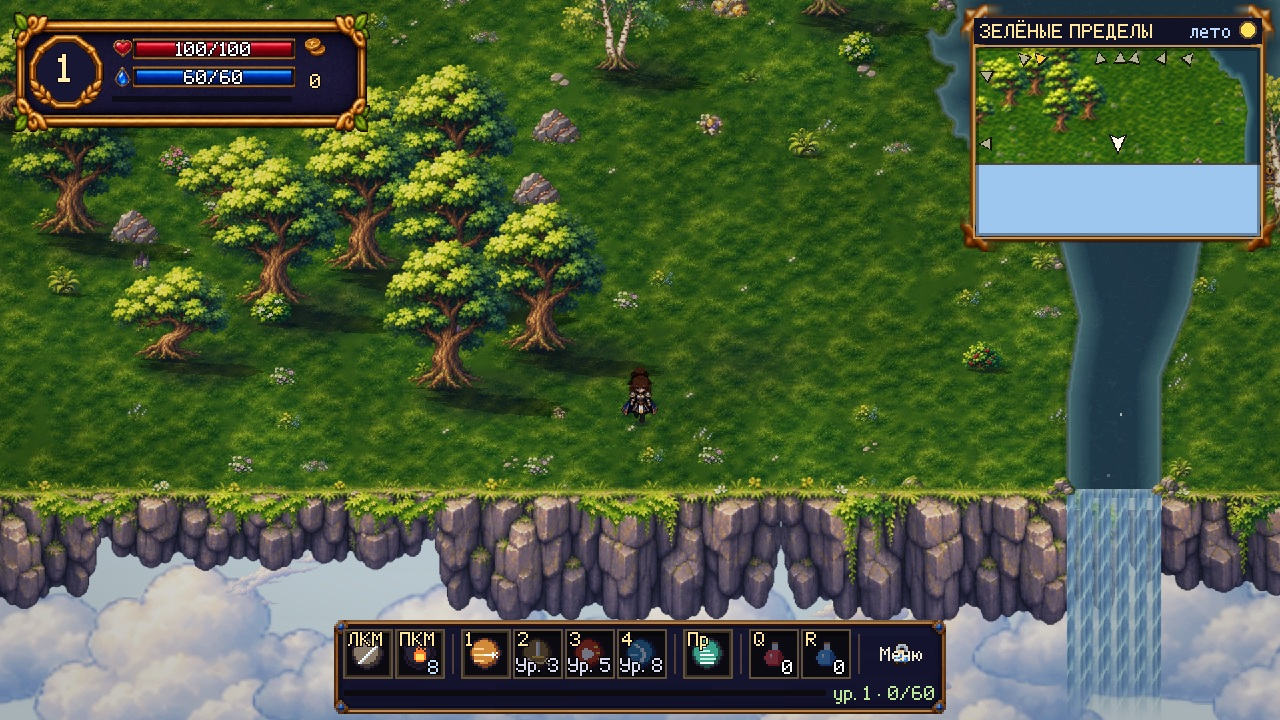
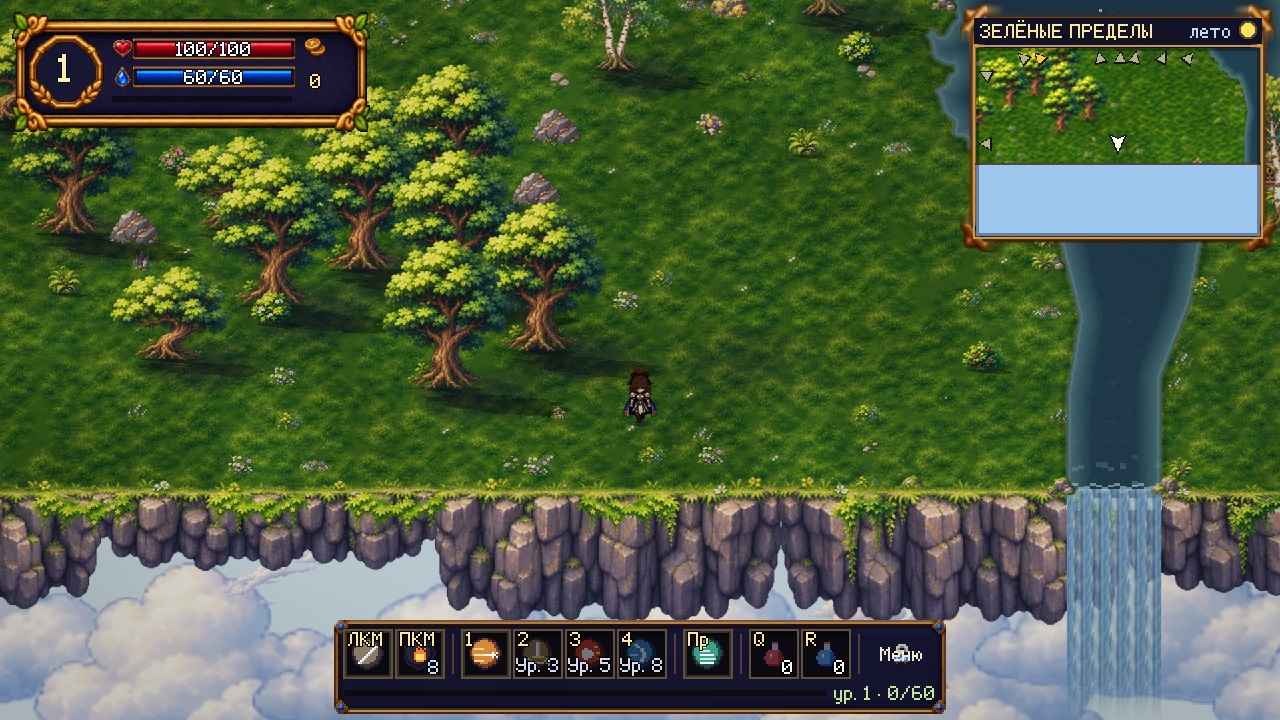
Blend lake surface into waterfall with synchronized brink current

diff --git a/docs/AI_HANDOFF.md b/docs/AI_HANDOFF.md
@@ -1,10 +1,12 @@
 # AI HANDOFF — Skyward Tales
 
-Последнее обновление: 11 ноября 2026 года — русло озера и нижний силуэт скал.
+Последнее обновление: 11 ноября 2026 года — русло озера, нижний силуэт скал и течение у уступа.
 
 **Утверждён один стиль:** подробный пиксельный лесной летающий остров по эталону владельца, чуть более приглушённый дневной свет и тёмный золотой UI. Не генерировать альтернативные варианты. См. docs/ART_DIRECTION.md.
 
 **Продолжение после остановки предыдущего ИИ:** добавлено `terrain.ponds[id=east_lake_outlet]`: полигон от озера (1556, 991) к устью EastLakeSource (1556, 1274). `polygon` — точный контур воды в HD и обычном генераторе, `rect` — его охватывающие габариты для перебора коллизий и защитных зон леса/сокровищ. В world.gd полигон проверяется до rect; препятствия идут с отступом 10 px от берега и входят в общий навигационный меш. Миникарта использует пересобранную землю. Узкое русло помечено fishable=false; рыбалка у озера сохранена. Местные игровые объекты и деревья не перемещены. `varied_cliff_depth=true` только у Greenreach меняет вертикальный масштаб существующих граней при неподвижной травяной опоре; это улучшение нижнего силуэта, не новая нарисованная скала и не завершённая переделка верхней геометрии острова. `cliff_outlet.gdshader` вырезает траву у устья; параметры берутся из экземпляра сцены, когда она задана. Новая проверка — tests/lake_outlet.gd. Локально прошли lake_outlet, island_style, waterfall_scene, look_polish, navigation, forest_presentation, settlement_growth на Godot 4.6.3; CI проверяет 4.7.2. Игровой кадр: docs/screenshots/greenreach_waterfall.png, 1920×1080, полдень. capture_island01.gd теперь освобождает игру и звук до выхода.
+
+**Продолжение после второго зависания:** восстановлена ветка `fix/island01-lake-outlet` с коммитом `414378c`. К озёрному EastLakeSource добавлен прозрачный Approach: 38 px поверх воды до уступа, перекрытие струи на 3 px, короткие полосы течения и разорванный гребень пены. Его ширина/оттенок/скорость обновляются вместе с водопадом; у родников по умолчанию отключён. Исходник — `assets/shaders/waterfall_approach.gdshader`, инспектор — `approach_length`. Локально Godot 4.6.3: импорт, waterfall_scene, lake_outlet, navigation, island_style, look_polish — прошли. navigation/look_polish выдают прежние предупреждения об освобождении ресурсов при выходе. Кадр 1920×1080 снят через X11/OpenGL llvmpipe в реальной игре; ошибок шейдера нет. Workflow Island art review теперь запускается также на этой ветке (Godot 4.7.2); его результаты нужно проверить отдельно. Верхняя граница земли остаётся прямой: следующая работа — общий профиль южного берега для земли, скал, коллизий и навигации, с сохранением мостовых выходов и координаты устья. Не выдавать изменение глубины граней за завершённую геометрию острова.
 
 **Первый остров, актуально:** tools/art/island01_polish.py вызывает forest_composition.compose: 17 заданных зон рощ, 114 деревьев вместо прежних 209. Препятствия, тропы, вода, NPC/сундуки/ресурсы, входы башни/штольни, верстаки и будущие участки settlement защищены от новых крон. terrain.tree_variants соответствует terrain.trees; runtime и миникарта используют одинаковые формы: 2 дуба + 2 берёзы. Предыдущая прямоугольная расчистка больше не является источником раскладки. Не возвращать случайное рассыпание деревьев. Проверка воспроизводимости и пиксельных опор — в генераторе ресурсов.
 

diff --git a/docs/ISLAND01_EDITING.md b/docs/ISLAND01_EDITING.md
@@ -50,3 +50,5 @@ python3 tools/art/island01_polish.py
 В `data/regions.json → greenreach.terrain.ponds` запись `id: east_lake_outlet` задаёт русло через `polygon`. Тот же многоугольник используют обычная/HD-земля и препятствия воды; `rect` должен охватывать все его вершины. После изменения пересоберите остров. Устье текущего контура совпадает с EastLakeSource: x=1556, ширина 64, y=1274. Если переносите водопад или меняете ширину, согласуйте последние вершины русла и проверьте `tests/lake_outlet.gd`; передвижение источника в редакторе само не перестраивает землю. Рыбалка в узком русле отключена через `fishable: false`, озеро сохраняет рыбалку.
 
 `terrain.varied_cliff_depth: true` включает разную глубину существующих граней CliffRim. Их травяная опора остаётся на y=1280. В устье шейдер убирает поперечную травяную полосу, следуя позиции/ширине экземпляра водопада. Для остальных локаций настройка не включена. Это первый шаг к неровному силуэту: верхняя граница земли пока остаётся прямой.
+
+`EastLakeSource.approach_length = 38` добавляет прозрачный слой течения перед уступом и разорванную кромку пены. Он перекрывает начало струи на 3 px, использует её ширину, оттенок и часы анимации. В инспекторе длина регулируется от 0 до 64 px; 0 отключает слой для родников без озера. Держите всю площадь этого слоя внутри водного полигона: это визуальный эффект, он не меняет берег или столкновения. Источник рисунка — `assets/shaders/waterfall_approach.gdshader`.
